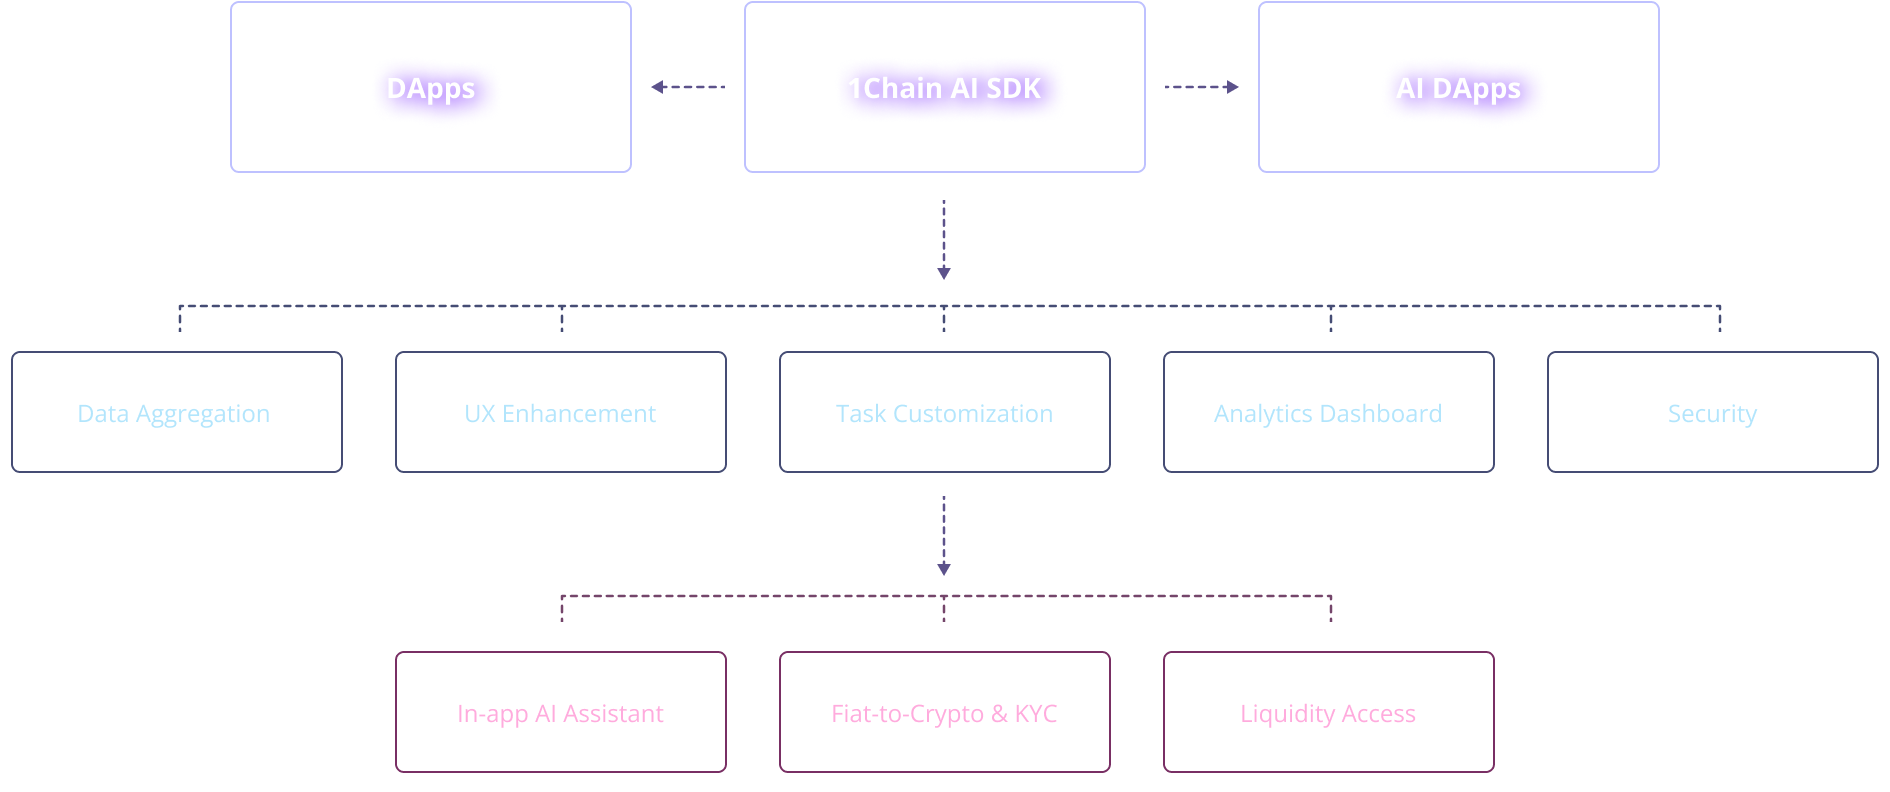
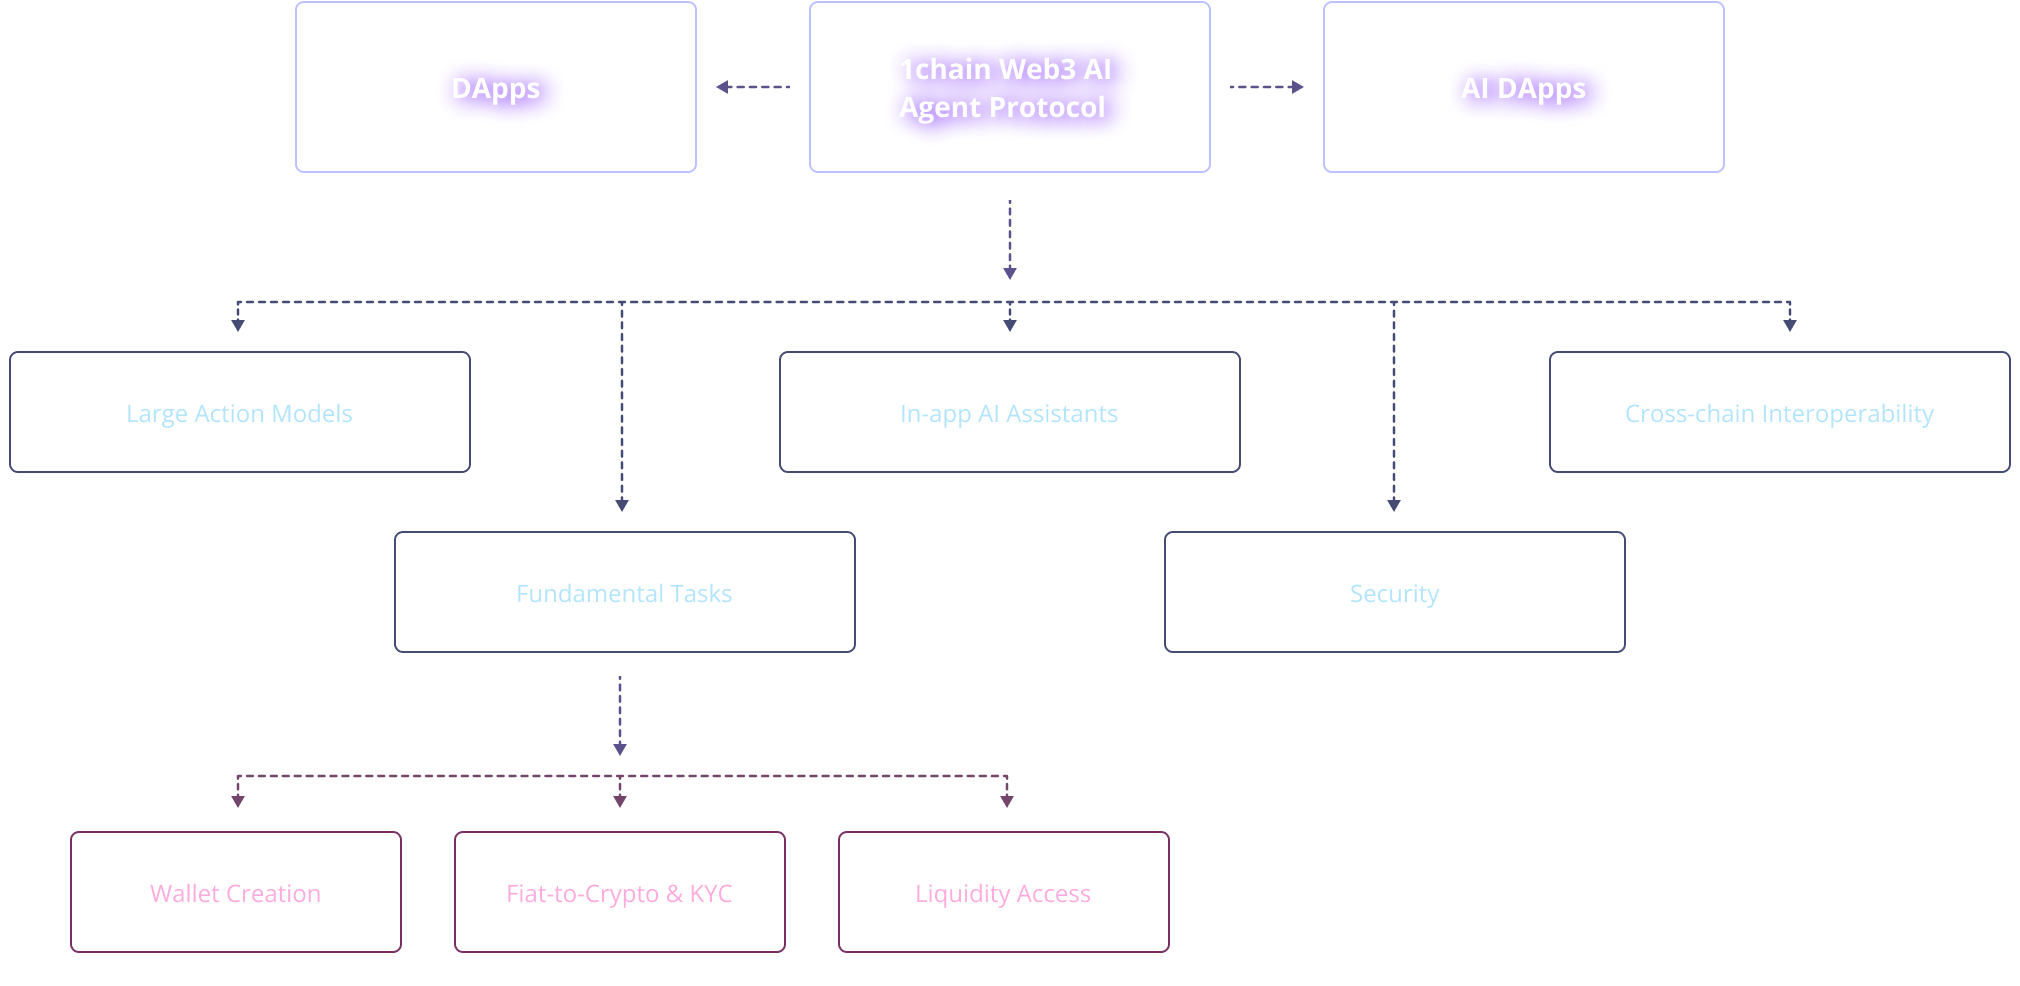
update artchitecture and link whitepaper

diff --git a/src/pages/home-page/sections/architecture.tsx b/src/pages/home-page/sections/architecture.tsx
@@ -1,4 +1,4 @@
-import { Box, Container, Flex, Image, Text, createStyles, em, useMantineTheme } from '@mantine/core';
+import { Box, Container, Flex, Image, MediaQuery, Text, createStyles, em, useMantineTheme } from '@mantine/core';
 import { useMediaQuery } from '@mantine/hooks';
 
 
@@ -64,7 +64,17 @@ export const Architecture = () => {
         <Text ff="Open Sans" fw={400} size={14} color="white.2" mt={30}>
           1Chain AI is a Web3 AI protocol that helps DApp developers to simplify onboarding and enhance user experience for new crypto users by integrating in-app AI assistants.
         </Text>
-        <Image src="images/one-chainai/artchitecture.png" maw={945} mt={74} mr='auto' ml='auto' mb={133} width='100%' fit="contain" />
+        <MediaQuery smallerThan="sm" styles={{ display: 'none' }}>
+
+          <Image src="images/one-chainai/artchitecture.png" maw={945} mt={74} mr='auto' ml='auto' mb={133} width='100%' fit="contain" />
+        </MediaQuery>
+        <MediaQuery largerThan="sm" styles={{ display: 'none' }}>
+          <Image maw='80%' src="images/one-chainai/artchitecture_mobile.png" mt={74} mr='auto' ml='auto' mb={133} fit="contain" />
+
+
+
+        </MediaQuery>
+
 
       </Container>
     </Box>

diff --git a/src/components/app-header.tsx b/src/components/app-header.tsx
@@ -95,7 +95,7 @@ export const AppHeader = () => {
                 <Link color='white.0' to="/" onClick={onMovedEcoSystemClicked}>
                   1chain.AI Ecosystem
                 </Link>
-                <Link color='white.0' to="/white-paper" >
+                <Link color='white.0' to="https://1chain-ai.gitbook.io/1chain-ai-whitepaper" target='blank' >
                   Whitepaper
                 </Link>
 
@@ -157,7 +157,7 @@ export const AppHeader = () => {
                 1chain.AI Ecosystem
               </Text>
             </Link>
-            <Link to="/white-paper" style={{ textDecoration: 'none' }} onClick={onLinkClicked}>
+            <Link to="https://1chain-ai.gitbook.io/1chain-ai-whitepaper" target='blank' style={{ textDecoration: 'none' }} onClick={onLinkClicked}>
               <Text ff="Outfit" fw={500} size={24} color="white.0">
                 Whitepaper
               </Text>

diff --git a/src/pages/home-page/sections/ecosystem.tsx b/src/pages/home-page/sections/ecosystem.tsx
@@ -164,7 +164,7 @@ export const EcoSystem = () => {
                         </Text>
                     </Box>
 
-                    <Flex wrap="wrap" gap={40} justify='center' mt={57} mb={220}>
+                    <Flex wrap="wrap" gap={{ sm: 40, base: 20 }} justify='center' mt={57} mb={220}>
 
 
                         <BackgroundImage className={classes.bgitem} src="images/one-chainai/svg/Acti1.svg" onClick={() => {
